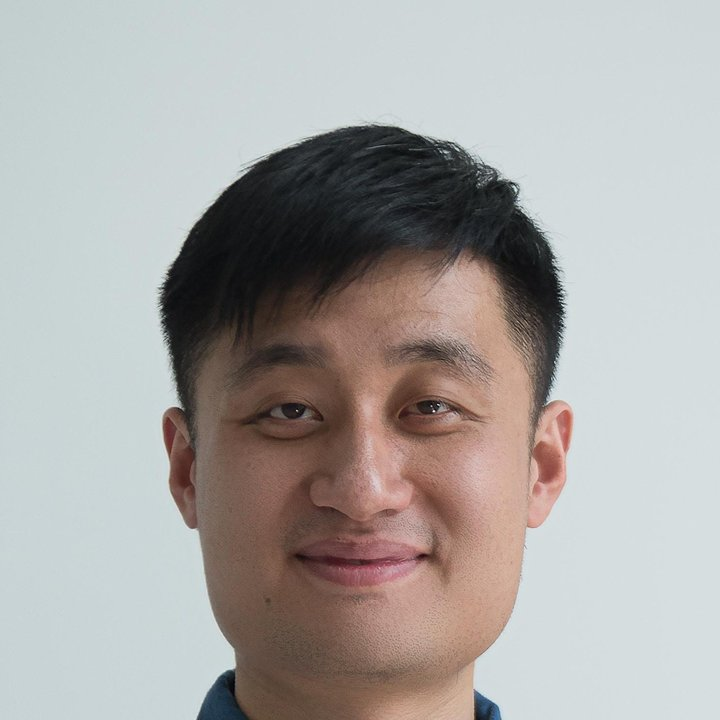
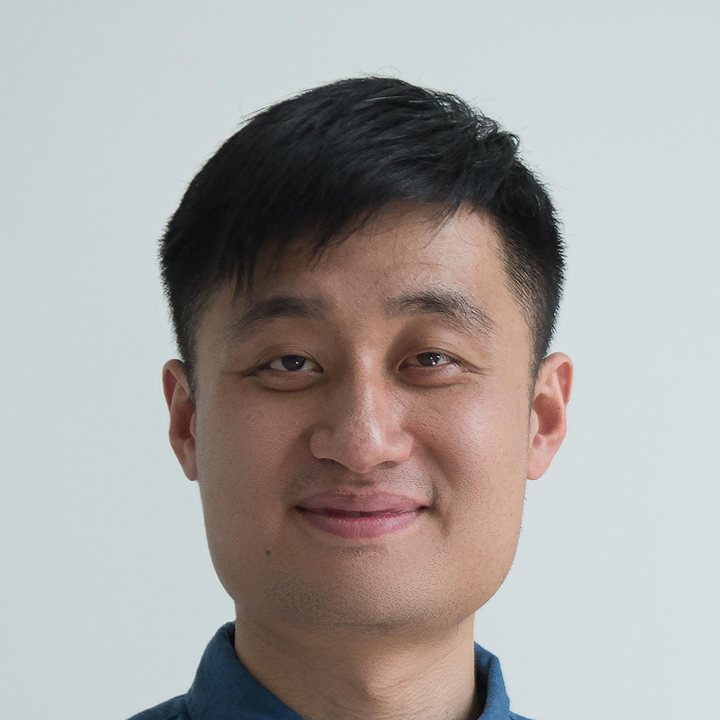
修改课程结构等

Changed region(s): [[0.1833, 0.0917, 0.7944, 1.0]]

diff --git a/_pages/teaching.html b/_pages/teaching.html
@@ -1,12 +1,19 @@
 ---
 layout: archive
 title: "Teaching"
+hide_title: true
 permalink: /teaching/
 author_profile: true
 ---
 
 {% include base_path %}
 
-{% for post in site.teaching reversed %}
+{% assign current_courses = site.teaching | where_exp: "post", "post.archived != true" | reverse %}
+{% for post in current_courses %}
   {% include archive-single.html %}
 {% endfor %}
+
+{% assign archived_courses = site.teaching | where_exp: "post", "post.archived == true" | reverse %}
+{% if archived_courses.size > 0 %}
+<p style="margin-top: 2em">已归档课程：<a href="{{ base_path }}/teaching-archive/">Archived courses</a>（{{ archived_courses.size }} 门）</p>
+{% endif %}

diff --git a/_layouts/single.html b/_layouts/single.html
@@ -26,7 +26,7 @@ layout: default
     <div class="page__inner-wrap">
       {% unless page.header.overlay_color or page.header.overlay_image %}
         <header>
-          {% if page.title %}<h1 class="page__title" itemprop="headline">{{ page.title | markdownify | remove: "<p>" | remove: "</p>" }}</h1>{% endif %}
+          {% if page.title and page.hide_title != true %}<h1 class="page__title" itemprop="headline">{{ page.title | markdownify | remove: "<p>" | remove: "</p>" }}</h1>{% endif %}
           {% if page.read_time %}
             <p class="page__meta"><i class="fa fa-clock-o" aria-hidden="true"></i> {% include read-time.html %}</p>
           {% endif %}

diff --git a/_layouts/archive.html b/_layouts/archive.html
@@ -17,7 +17,9 @@ layout: default
 
   <div class="archive">
     {% unless page.header.overlay_color or page.header.overlay_image %}
-      <h1 class="page__title">{{ page.title }}</h1>
+      {% unless page.hide_title %}
+        <h1 class="page__title">{{ page.title }}</h1>
+      {% endunless %}
     {% endunless %}
     {{ content }}
   </div>

diff --git a/_pages/year-archive.html b/_pages/year-archive.html
@@ -2,6 +2,7 @@
 layout: archive
 permalink: /year-archive/
 title: "Blog posts"
+hide_title: true
 author_profile: true
 redirect_from:
   - /wordpress/blog-posts/

diff --git a/_pages/portfolio.html b/_pages/portfolio.html
@@ -1,6 +1,7 @@
 ---
 layout: archive
 title: "Portfolio"
+hide_title: true
 permalink: /portfolio/
 author_profile: true
 ---

diff --git a/_teaching/2017-autumn-teaching-1.md b/_teaching/2017-autumn-teaching-1.md
@@ -6,6 +6,7 @@ permalink: /teaching/2017-autumn-teaching-1
 venue: "浙江工业大学"
 date: 2017-09-01
 location: "杭州, 中国"
+archived: true
 ---
 
 数据分析和可视化是有目的的收集、整理、加工和分析数据，提炼并展示有价信息的一个过程，在日常工作、科学研究、商业活动中有重要的作用。本课程旨在培养学生实际获取数据、处理数据、分析数据、展示数据的技能，为学生今后从事相关工作打下基础。

diff --git a/_pages/teaching-archive.md b/_pages/teaching-archive.md
@@ -1,0 +1,16 @@
+---
+layout: archive
+title: "Archived courses"
+hide_title: true
+permalink: /teaching-archive/
+author_profile: true
+---
+
+{% include base_path %}
+
+{% assign archived_courses = site.teaching | where_exp: "post", "post.archived == true" | reverse %}
+{% for post in archived_courses %}
+  {% include archive-single.html %}
+{% endfor %}
+
+<p style="margin-top: 2em"><a href="{{ base_path }}/teaching/">← 返回当前课程</a></p>

diff --git a/_teaching/2017-spring-teaching-2.md b/_teaching/2017-spring-teaching-2.md
@@ -2,10 +2,11 @@
 title: "对外交通规划"
 collection: teaching
 type: "本科生专业课"
-permalink: /teaching/2017-spring-teaching-1
+permalink: /teaching/2017-spring-teaching-2
 venue: "浙江工业大学"
 date: 2017-03-01
 location: "杭州, 中国"
+archived: true
 ---
 
 针对城乡规划本科的专业课程，为城市总体规划和城市综合交通规划提供理论和方法支撑。

diff --git a/_teaching/2017-spring-teaching-1.md b/_teaching/2017-spring-teaching-1.md
@@ -6,6 +6,7 @@ permalink: /teaching/2017-spring-teaching-1
 venue: "浙江工业大学"
 date: 2017-03-01
 location: "杭州, 中国"
+archived: true
 ---
 
 针对城乡规划本科的专业课程，主要配合城市总体规划、详细规划等阶段的道路交通规划设计，使学生掌握道路交通的基本知识和城市道路设计能力。

diff --git a/_teaching/2017-autumn-teaching-2.md b/_teaching/2017-autumn-teaching-2.md
@@ -6,6 +6,7 @@ permalink: /teaching/2017-autumn-teaching-2
 venue: "浙江工业大学"
 date: 2017-09-01
 location: "杭州, 中国"
+archived: true
 ---
 
 研究城市交通与土地利用间的相互作用及作用机制，对于构建良好的城市空间结构、缓解城市交通问题、促进城市可持续发展等具有重要意义。

diff --git a/_teaching/2018-autumn-teaching-1.md b/_teaching/2018-autumn-teaching-1.md
@@ -6,6 +6,7 @@ permalink: /teaching/2018-autumn-teaching-1
 venue: "浙江工业大学"
 date: 2018-09-01
 location: "杭州, 中国"
+archived: true
 ---
 
 针对城乡规划本科、研究生的专业课程，使学生熟悉系统工程的概念、思路，掌握城乡规划中调查、统计、分析、评价、决策等常用方法。

diff --git a/_pages/publications.md b/_pages/publications.md
@@ -1,6 +1,7 @@
 ---
 layout: archive
 title: "Publications"
+hide_title: true
 permalink: /publications/
 author_profile: true
 ---
